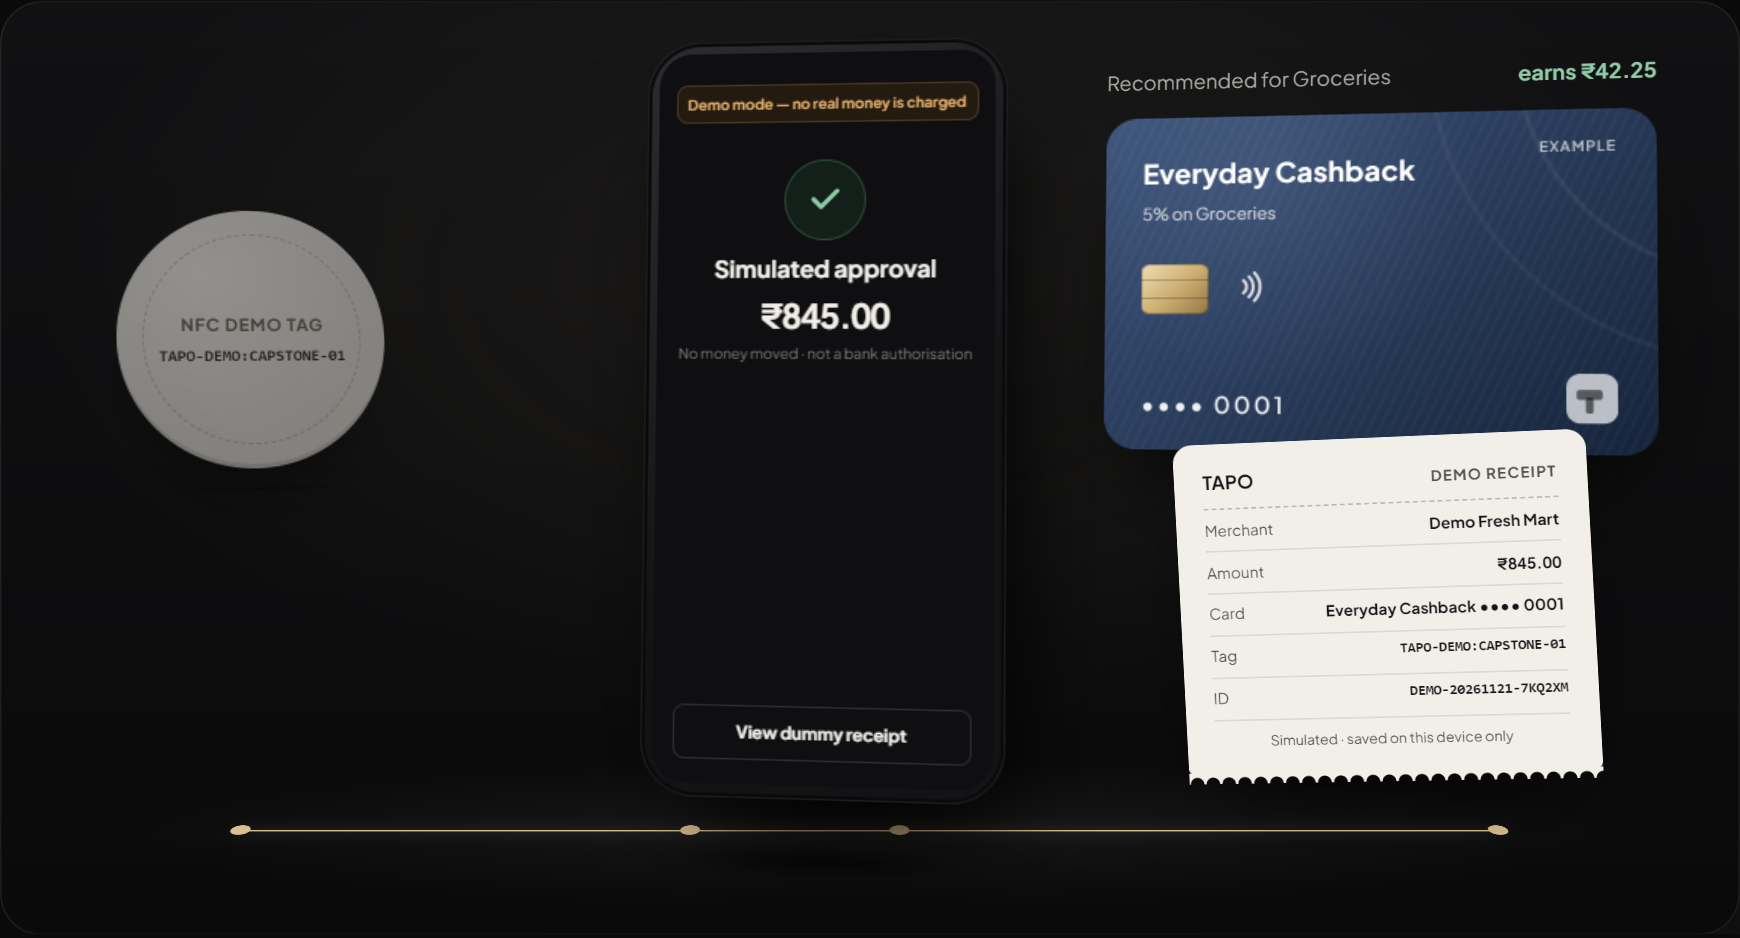
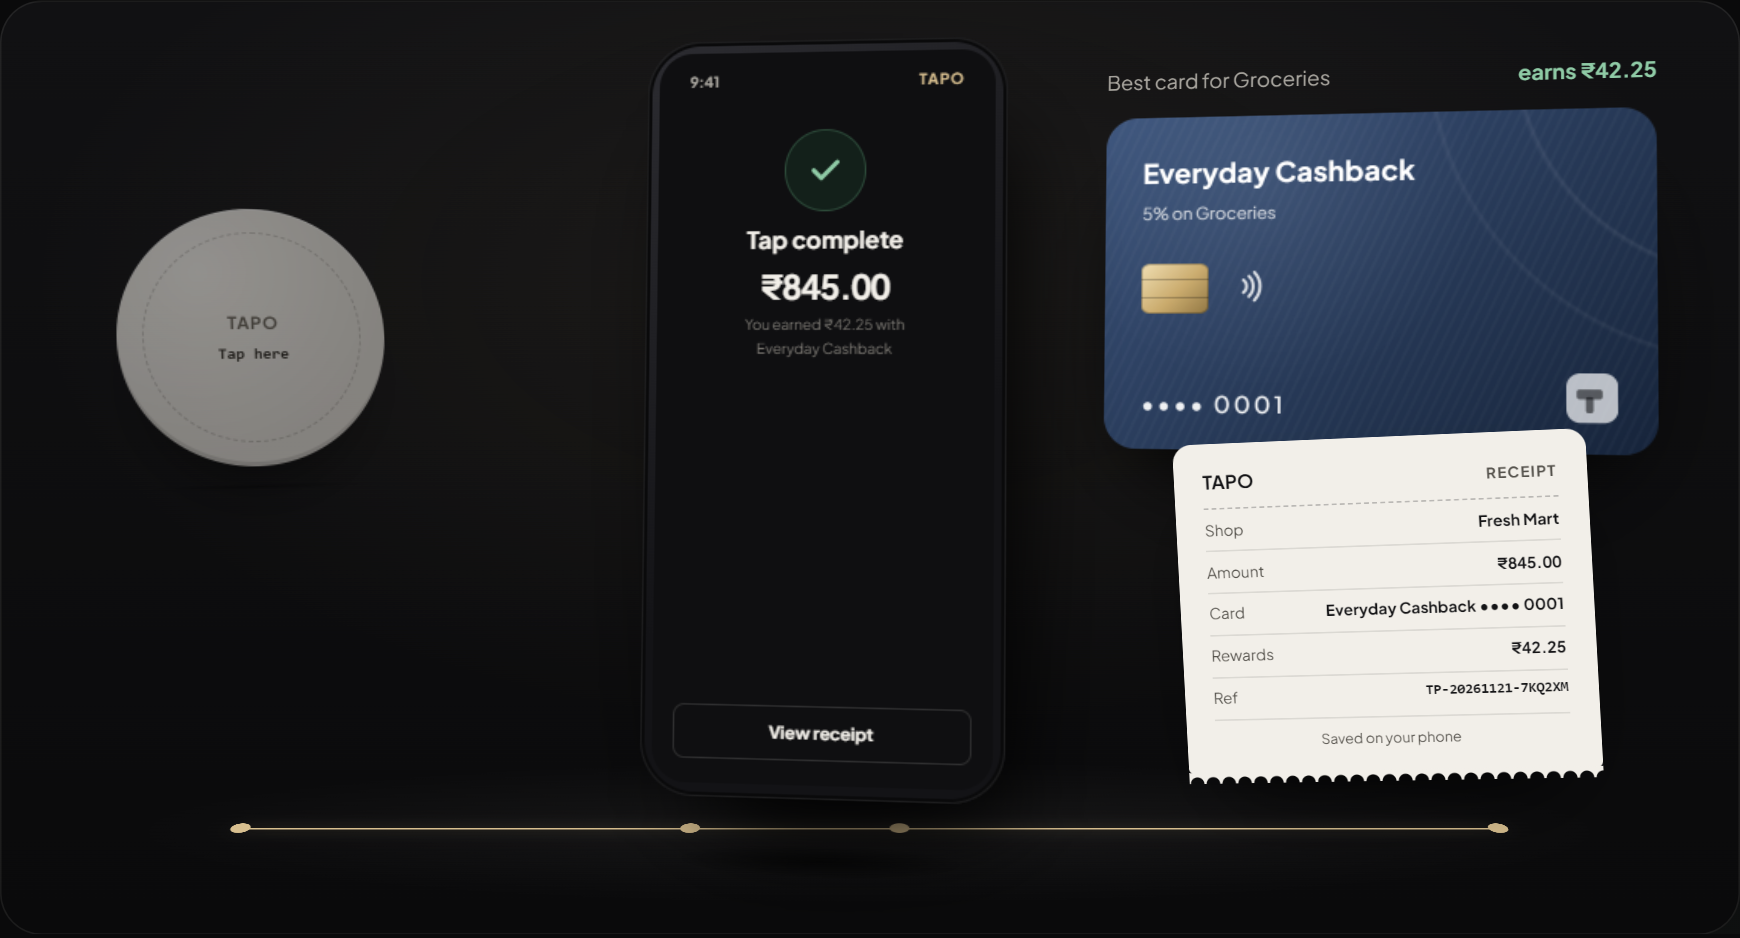
Tap to pay page: present the flow as a product, not a demo
Rewrites /showcase/ (now 'Tap to pay' in the nav) as product copy: new headline, a phone status bar instead of the demo banner, 'Tap complete' with the rewards earned, a plain receipt, and no simulation pill or real-vs-simulated section. The site-wide footer note is unchanged. README preview and tests updated to match.

diff --git a/site/showcase.css b/site/showcase.css
@@ -1,6 +1,6 @@
 /* =====================================================================================
-   /showcase/ — the tap-to-pay demo as an animated, 3D "README".
-   One stage, four states (data-step 0–3): demo tag → phone → simulated checkout → card & receipt.
+   /showcase/ — tap to pay, as an animated 3D walkthrough.
+   One stage, four states (data-step 0–3): tag → phone → checkout → card & receipt.
    CSS 3D transforms only (no WebGL, no library). Only transform and opacity animate.
    Without JavaScript the stage shows the finished flow (data-step="3"); with reduced motion
    nothing plays by itself and steps change instantly (global tokens in styles.css drop to 0ms).
@@ -9,10 +9,6 @@
 .sc-h1 { font-size: var(--t-h1); line-height: .98; letter-spacing: -0.028em; margin-top: var(--s5); max-width: 18ch; }
 .sc-h1 .accent { color: var(--champagne); display: block; }
 .sc-hero .lede { margin-top: var(--s5); }
-.sc-safety { display: flex; flex-wrap: wrap; align-items: center; gap: 8px 12px; margin-top: var(--s5); color: var(--text-2); font-size: var(--t-sm); }
-.sc-safety em { font-style: normal; color: var(--porcelain); }
-.sc-pill { display: inline-flex; align-items: center; gap: 7px; padding: 5px 11px; border-radius: 999px; border: 1px solid rgba(227,174,107,.35); background: var(--ochre-bg); color: var(--ochre); font-weight: 700; font-size: 12.5px; letter-spacing: .04em; text-transform: uppercase; }
-.sc-pill::before { content: ""; width: 6px; height: 6px; border-radius: 50%; background: currentColor; }
 
 .sc-stage-sec { padding-bottom: var(--s9); }
 .sc-stage { --step-ms: 2400ms; }
@@ -57,7 +53,8 @@
 .sc-stage[data-step="3"] .phone3d-sc { transform: rotateY(-8deg) rotateX(3deg) translateZ(10px); }
 .ph-body { aspect-ratio: 9 / 18.6; container-type: inline-size; border-radius: 15% / 7.2%; padding: 3.4%; background: linear-gradient(145deg, #2C2C31, #131316 60%); box-shadow: inset 0 0 0 1px rgba(255,255,255,.08), inset 0 0 0 3px #0A0A0B, var(--shadow-2), 30px 40px 60px -30px rgba(0,0,0,.9); }
 .ph-screen { position: relative; height: 100%; border-radius: 10cqw; background: #0F0F11; overflow: hidden; display: flex; flex-direction: column; }
-.ph-banner { margin: 9cqw 5cqw 0; padding: 2.6cqw 3cqw; border-radius: 3.4cqw; background: var(--ochre-bg); border: 1px solid #4A3820; color: var(--ochre); font-weight: 700; font-size: 4.3cqw; line-height: 1.25; text-align: center; }
+.ph-top { display: flex; justify-content: space-between; margin: 5cqw 9cqw 0; font-weight: 700; font-size: 4.4cqw; color: var(--text-2); }
+.ph-top span:last-child { color: var(--champagne); letter-spacing: .08em; }
 .scrs { position: relative; flex: 1; }
 .scr { position: absolute; inset: 0; padding: 7cqw 6cqw; display: flex; flex-direction: column; gap: 3cqw; opacity: 0; transform: translateY(3cqw); transition: opacity var(--d-std) var(--ease-out), transform var(--d-layout) var(--ease-out); }
 .sc-stage[data-step="0"] .s0, .sc-stage[data-step="1"] .s1, .sc-stage[data-step="2"] .s2, .sc-stage[data-step="3"] .s3 { opacity: 1; transform: none; }
@@ -143,19 +140,10 @@
 .sc-table td:first-child { color: var(--porcelain); }
 .sc-table .yes, .sc-table .no { display: inline-block; min-width: 38px; margin-right: 8px; font-weight: 700; }
 .sc-table .yes { color: var(--sage); } .sc-table .no { color: var(--text-3); }
-.sc-hood { display: grid; grid-template-columns: minmax(0, 7fr) minmax(0, 5fr); gap: var(--s6); align-items: start; }
-.sc-files { margin: 0; border-top: 1px solid var(--rule-strong); }
-.sc-files > div { display: grid; grid-template-columns: minmax(0, 5fr) minmax(0, 6fr); gap: var(--s4); padding: 14px 0; border-bottom: 1px solid var(--rule); }
-.sc-files dt code { font: 600 13.5px ui-monospace, "SF Mono", Menlo, Consolas, monospace; color: var(--champagne-2); overflow-wrap: anywhere; }
-.sc-files dd { margin: 0; color: var(--text-2); font-size: 15px; }
-.sc-files dd code { font: 13px ui-monospace, "SF Mono", Menlo, Consolas, monospace; }
-.sc-cmd { margin: 0; padding: var(--s5); border-radius: var(--r-lg); background: var(--graphite-1); border: 1px solid var(--rule); overflow-x: auto; font: 14px/1.75 ui-monospace, "SF Mono", Menlo, Consolas, monospace; color: var(--porcelain); }
-.sc-cmd .c { color: var(--text-3); }
 
 /* ---------- responsive ---------- */
 @media (max-width: 1060px) {
   .sc-rail { grid-template-columns: repeat(2, minmax(0, 1fr)); row-gap: var(--s5); }
-  .sc-hood { grid-template-columns: minmax(0, 1fr); }
 }
 @media (max-width: 700px) {
   /* portrait stage: phone in front, tag above-left, result comes forward over the phone */
@@ -175,7 +163,6 @@
   .sc-rail { grid-template-columns: minmax(0, 1fr); gap: 0; }
   .sc-step { padding: 14px 0; }
   .sc-play { margin-top: 0; align-self: flex-start; }
-  .sc-files > div { grid-template-columns: minmax(0, 1fr); gap: 4px; }
 }
 @media (prefers-reduced-motion: reduce) {
   .sc-stage .tag3d, .sc-stage .ph-nfc, .sc-stage .ripples i { animation: none !important; }
@@ -184,5 +171,3 @@
 }
 html[data-quality="low"] .world { transform: none; }
 
-/* the "never" list on /security/ strikes items through; here they exist, they are just fictional */
-.sc-truth .never li span:first-child { text-decoration: none; }

diff --git a/e2e/site.spec.ts b/e2e/site.spec.ts
@@ -3,7 +3,7 @@ import { expect, test } from '@playwright/test';
 const PAGES = [
   ['/', /Every card/],
   ['/product/', /One app/],
-  ['/showcase/', /Tap a demo tag/],
+  ['/showcase/', /One tap/],
   ['/security/', /never collect/],
   ['/faq/', /Questions, answered/],
 ] as const;
@@ -35,16 +35,15 @@ test.describe('public marketing pages', () => {
     await expect(page).toHaveURL(/\/app\/sign-in/);
   });
 
-  test('showcase: the demo flow can be stepped through and paused', async ({ page }) => {
+  test('tap to pay: the flow can be stepped through and paused', async ({ page }) => {
     await page.goto('/showcase/');
     const stage = page.locator('#scStage');
-    // Safety copy is part of the page, not only the animation.
-    await expect(page.getByText('Demo mode — no real money is charged')).toBeAttached();
-    await expect(page.getByText(/No bank card is read and no payment is processed/)).toBeVisible();
+    // The tag never carries card details, and the page says so.
+    await expect(page.getByText(/never card or payment details/)).toBeVisible();
 
-    await page.getByRole('button', { name: /Simulated checkout/ }).click();
+    await page.getByRole('button', { name: /^3 Checkout/ }).click();
     await expect(stage).toHaveAttribute('data-step', '2');
-    await expect(page.getByRole('button', { name: /Simulated checkout/ })).toHaveAttribute('aria-current', 'step');
+    await expect(page.getByRole('button', { name: /^3 Checkout/ })).toHaveAttribute('aria-current', 'step');
     await expect(page.locator('#scLive')).toContainText('Step 3 of 4');
     // Choosing a step pauses autoplay.
     await page.waitForTimeout(3000);
@@ -52,7 +51,7 @@ test.describe('public marketing pages', () => {
     await expect(page.getByRole('button', { name: 'Play the animation' })).toBeVisible();
   });
 
-  test('showcase: reduced motion shows the finished flow without autoplay', async ({ browser }) => {
+  test('tap to pay: reduced motion shows the finished flow without autoplay', async ({ browser }) => {
     const context = await browser.newContext({ reducedMotion: 'reduce' });
     const page = await context.newPage();
     await page.goto('/showcase/');

diff --git a/README.md b/README.md
@@ -41,16 +41,17 @@
 ## See the demo in motion
 
 <p align="center">
-  <a href="https://tapo-seven.vercel.app/showcase/"><img src="docs/readme/showcase.png" alt="The TAPO showcase stage after a simulated tap: a round NFC demo tag holding the text TAPO-DEMO:CAPSTONE-01, a phone showing 'Demo mode — no real money is charged' and 'Simulated approval, ₹845.00, no money moved', the sample card Everyday Cashback recommended for groceries, and a dummy receipt with ID DEMO-20261121-7KQ2XM." width="100%"></a>
+  <a href="https://tapo-seven.vercel.app/showcase/"><img src="docs/readme/showcase.png" alt="The TAPO tap-to-pay page after a tap: a round TAPO tag, a phone showing 'Tap complete, ₹845.00, you earned ₹42.25 with Everyday Cashback', the Everyday Cashback card as the best card for groceries, and a receipt kept on the phone." width="100%"></a>
 </p>
 
 <p align="center"><a href="https://tapo-seven.vercel.app/showcase/"><strong>Open the live, animated version →</strong></a></p>
 
 GitHub can't run the animation, so the image above is a still of its last step. The
-[live showcase](https://tapo-seven.vercel.app/showcase/) plays the whole flow in 3D:
-**demo tag → phone → simulated checkout → recommended card and dummy receipt**. It uses the demo's own fictional
-data (the dummy merchant *Demo Fresh Mart*, ₹845, and the sample card TAPO's rewards engine picks for groceries).
-You can pause it or step through it, and with *reduce motion* turned on it shows the finished flow without playing.
+[live page](https://tapo-seven.vercel.app/showcase/) plays the whole flow in 3D:
+**tag → phone → checkout → best card and receipt**. The card shown is the one TAPO's rewards engine picks for the
+purchase. You can pause it or step through it, and with *reduce motion* turned on it shows the finished flow
+without playing. The page is written as product marketing; like everything in this repository, the shop, amount,
+card and receipt it shows are fictional, and the flow it depicts is the simulated demo described below.
 
 ## What TAPO is
 
